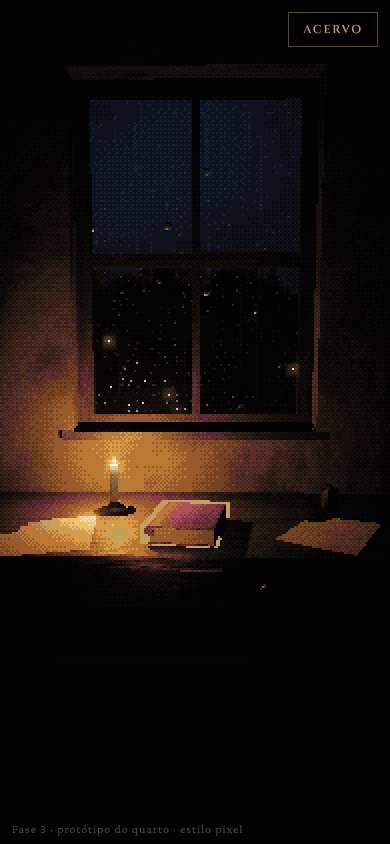
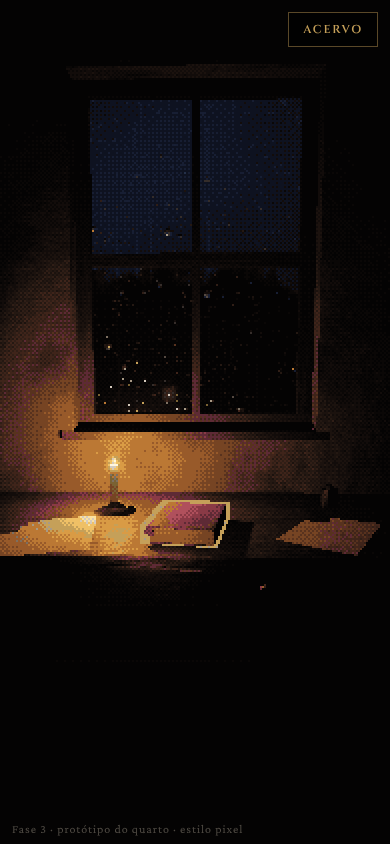
Contorno do livro não pisca mais: casca afastada 2 mm do tampo da mesa
Claude-Session: https://claude.ai/code/session_01PAroyFVcYGoQudUEASQKDN

diff --git a/src/scene/objects/Book.tsx b/src/scene/objects/Book.tsx
@@ -94,8 +94,10 @@ export function Book() {
       {/* no estilo pixel, um filete dourado de cerca de 1 pixel em volta do livro, para destacá-lo da
           mesa escura: caixa um pouco maior, desenhada só por dentro (casca invertida) */}
       {STYLE === 'pixel' && (
-        <mesh position={[-0.004, (t + 0.006) / 2, 0]}>
-          <boxGeometry args={[w + over + 0.008 + 0.02, t + 0.006, h + over * 2 + 0.02]} />
+        // o fundo da casca fica 2 mm acima do tampo: no mesmo plano da mesa, as duas superfícies
+        // disputavam o mesmo pixel e o contorno piscava
+        <mesh position={[-0.004, 0.002 + (t + 0.004) / 2, 0]}>
+          <boxGeometry args={[w + over + 0.008 + 0.02, t + 0.004, h + over * 2 + 0.02]} />
           <meshBasicMaterial color="#e0b060" side={THREE.BackSide} />
         </mesh>
       )}
